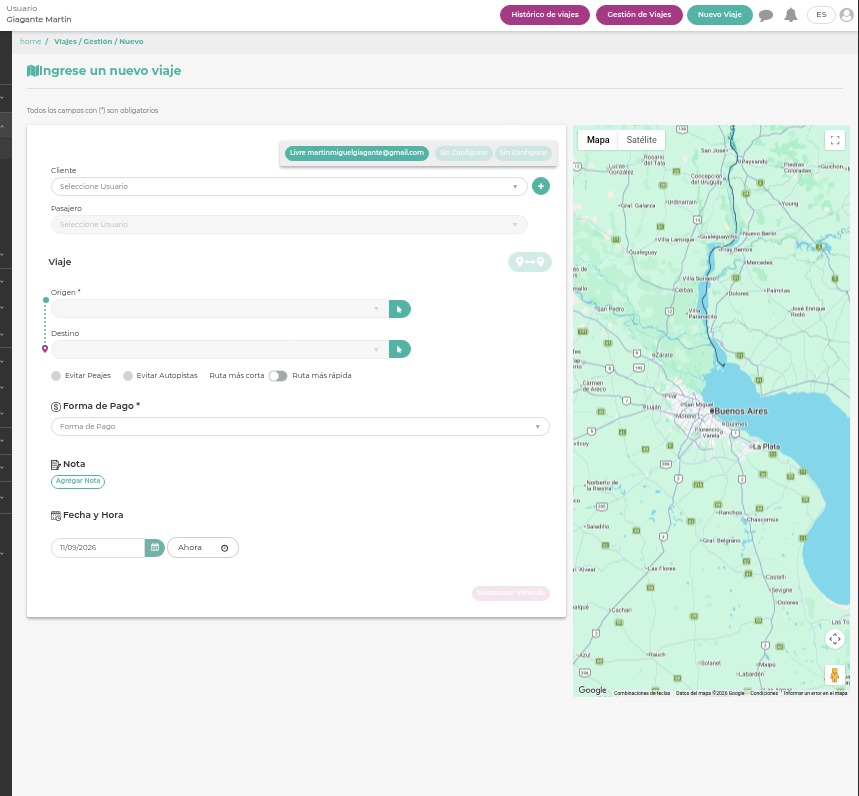
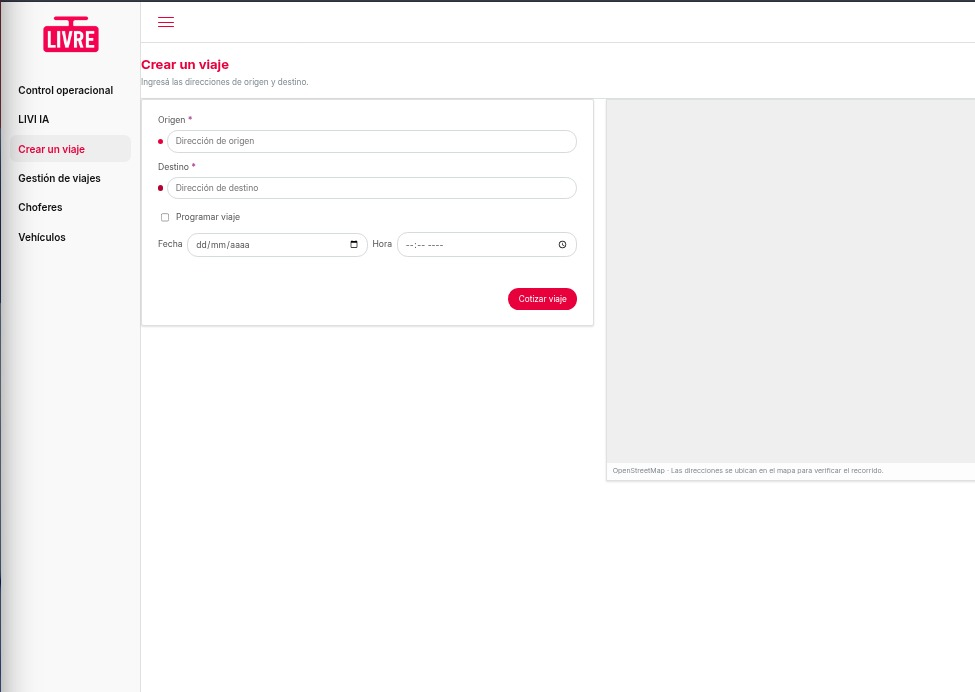
feat: expose live CRM travel data

diff --git a/app/crm/router.py b/app/crm/router.py
@@ -1,4 +1,6 @@
 """API autenticada de consulta para los datos recolectados de MAGIIS."""
+from datetime import date, timedelta
+
 from fastapi import APIRouter, Depends, Query
 from app.core.database import get_cursor_dep
 from app.core.jwt import require_auth
@@ -56,6 +58,54 @@ def summary(user: dict = Depends(require_auth), cur=Depends(get_cursor_dep)):
     )
     row = dict(cur.fetchone())
     return {k: int(v) if k in _RESOURCES and v is not None else v for k, v in row.items()}
+
+
+@router.get("/travels/live")
+def live_travels(
+    page: int = Query(default=1, ge=1, le=10000),
+    size: int = Query(default=20, ge=1, le=100),
+    q: str = Query(default="", max_length=120),
+    state: str = Query(default="", max_length=120),
+    programmed: str = Query(default="", max_length=20),
+    date_from: str = Query(default="", max_length=10),
+    date_to: str = Query(default="", max_length=10),
+    vip: bool = Query(default=False),
+    user: dict = Depends(require_auth),
+):
+    """Consulta en vivo de gestión de viajes, solo lectura contra MAGIIS."""
+    today = date.today()
+    travel_date_from = date_from or today.isoformat()
+    travel_date_to = date_to or (today + timedelta(days=31)).isoformat()
+    session = magiis_web.login()
+    with MagiisCrmReader(session) as reader:
+        page_data = reader.travel_page(
+            page=page,
+            size=size,
+            travel_date_from=travel_date_from,
+            travel_date_to=travel_date_to,
+            state=state,
+            programmed=programmed,
+            find=q,
+            is_pax_vip=vip,
+        )
+        totals = reader.travel_totals(
+            travel_date_from=travel_date_from,
+            travel_date_to=travel_date_to,
+            find=q,
+            programmed=programmed,
+            is_pax_vip=vip,
+        )
+    page_info = page_data.get("page", page_data)
+    return {
+        "source": "magiis",
+        "items": page_info.get("content", []),
+        "page": page_info.get("number", page - 1) + 1,
+        "size": page_info.get("size", size),
+        "total": page_info.get("totalElements", 0),
+        "totals": totals,
+        "date_from": travel_date_from,
+        "date_to": travel_date_to,
+    }
 
 
 @router.get("/{resource}")
